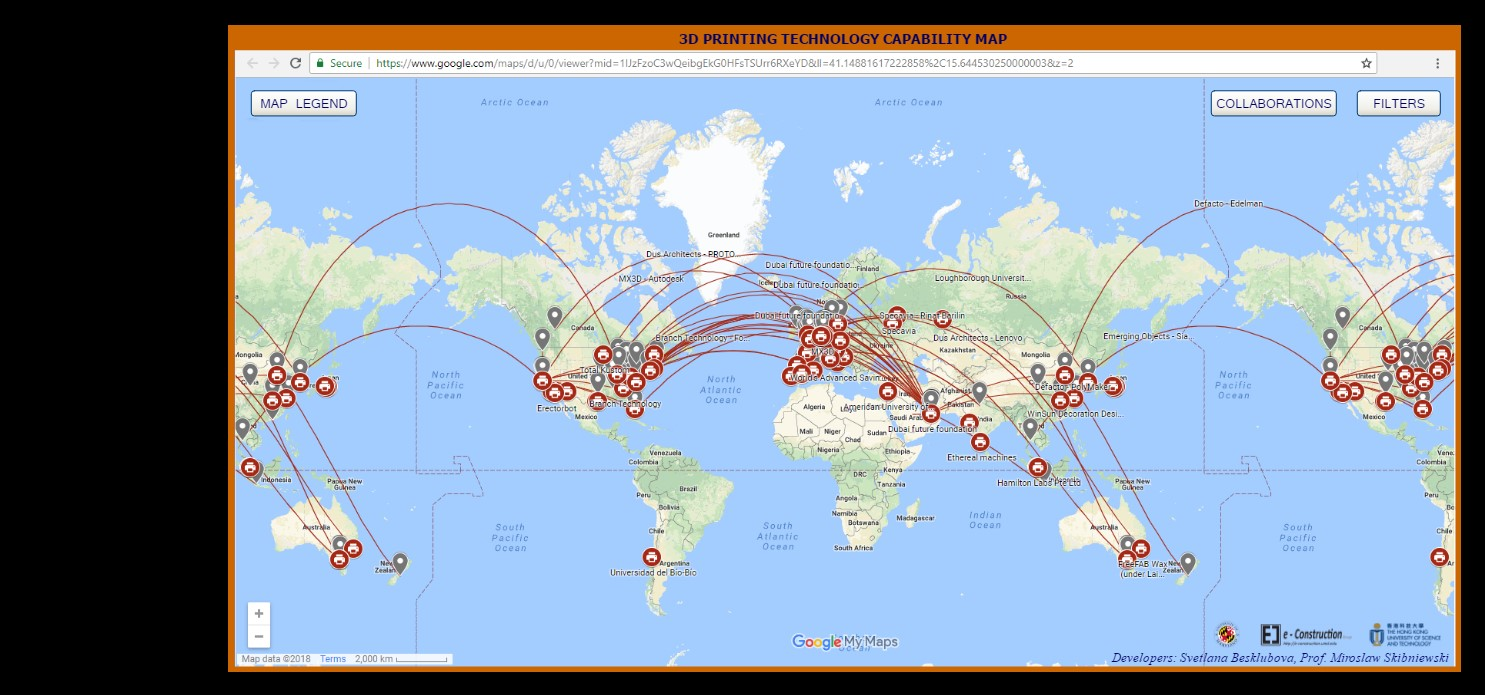
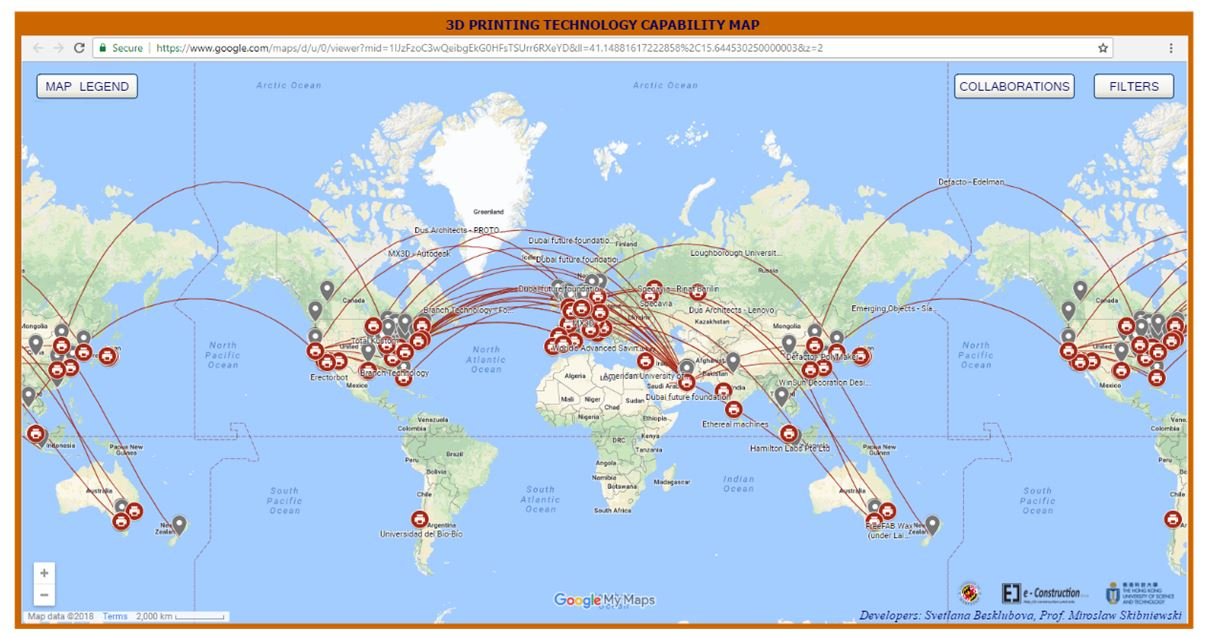
added a project

diff --git a/content/projects/3D-printing-map.md b/content/projects/3D-printing-map.md
@@ -7,30 +7,43 @@ tags: ["Geovisualization", "Web Programming"]
 
 ## How the system works
 
-A 3D printing companies database organized prior to data mapping was designed using the relational model. The database holds information on 3D printing organizations where each item referred contains basic information such as organization name; attributes such as current capabilities and types; location information such as city and geolocation; and one or more pictures grouped within galleries. The database also contains information about conventional construction industry companies who collaborate with 3D printing organizations and their identified linkages. The structure of the database is shown below. All of these details have been imported to the map to allow a visualization of the information, the initial prototype can be found by following the link: https://goo.gl/JJJbUi.
+A 3D printing companies database organized prior to data mapping was designed using the relational model. The database holds information on 3D printing organizations where each item referred contains basic information such as organization name; attributes such as current capabilities and types; location information such as city and geolocation; and one or more pictures grouped within galleries. The database also contains information about conventional construction industry companies who collaborate with 3D printing organizations and their identified linkages. The structure of the database is shown in Fig. 1. All of these details have been imported to the map to allow a visualization of the information (Fig. 2), the initial prototype can be found by following the [link](https://goo.gl/JJJbUi).
+
 ![pic1](01.jpg)
 Fig 1. Database Enhanced-Entity Relationship Diagram
 
-![pic1](02.jpg)
+![pic2](02.jpg)
 Fig 2. 3D Printing Technology Capability Map Interface (https://goo.gl/JJJbUi)
 
-I would like to build on top of what was initially done on Google maps and further implement new functionalities.
-This will should likely require to build a visualization platform without the use of the Google Map APIs. 
-The project will comprise of backend as well as frontend programming.
+I would like to build on top of what was initially done using My Google maps and further implement new search functionalities.
+
+The project comprise of backend as well as frontend programming. The backend will carry out computations using self-defined functions and will process requests from the front end. We can make a simple front-end page with nice visualization and a user interface with the specifications as stated below.
 
 
-## Summary
+## The User Interface
 
-Oh hey there! Last Friday night's dinner at China Garden was fun - we talked about Entrepreneur First, hackUST, startups, life.. oh and Markus' super cool dirty air detector - well just catching up in general! Ended it off with a nice family photo.
+The user interface was designed with the main focus on the map as shown in Fig. 3. The layout scheme contains buttons at the top of the map area and logos and developer names and controls for map interaction like zoom in/out at the bottom area. These buttons contain options and actions that permit users to interact with the map, selecting filters according to user needs and listing markers. The left side of the map is reserved for the map legend (refer to Fig. 3) with listed on-off layers; for instance, if a user’s need is just to see the 3D printing organizations icons, then other layers can be turned off. The map legend also contains an additional menu with the following standard Google maps functions: collapse map legend, map details, copy map, print map, zoom to a viewport, embed this map and download KML. The right side of the map is left for filters (refer to Fig. 3), which provide interactivity to a user interface through its collapsible, extensible and closable panel. 3D printing organizations and conventional construction companies are presented with icons on the map. Red icons indicate 3D printing companies presently in existence while grey icons represent conventional construction companies.  
+![pic3](03.jpg)
+Fig 3. Map legend and filters
 
-Event photos:
+## Search Filter Functions
 
 
+This project is required to provide the user with a web interface for search functions such as those that find 3D printing organizations by location (country), by organization type or by capability; thus, the user has the option to see only selected companies. The button “filters” in the upper-right-corner area should be pressed to call the corresponding right-side panel to apply filters (refer to Fig. 2). After one filter or a filter combination is selected with the necessary values, then the button “apply” should be pressed (refer to Fig. 3); thus, the map displays the search results according to the user query. In the case that a filter combination application is selected, the map shows the search results satisfying all filters simultaneously. The button “clear” cancels all filters. The cancellation of filters can also be done one by one by pressing the “cross” next to the corresponding filter. The button “cancel” closes the “filters” panel. The following filters and functions have been integrated into the software (Fig. 3):
+(1)	Search for a 3D printing organization will zoom to that organization location. This is a standard function of Google maps, for which an organization name should be typed in a search engine in the “map legend” panel. If the user clicks a company icon on the map, the information about the requested company will be displayed in the Infowindow.
+(2)	Filter by country displays only the 3D printing organizations in a selected country. A user selects the country from the dropdown list. All of the 3DP organizations in the country are displayed on the map with the marker icons.
+(3)	Filter by organization type represents only the 3D printing organizations related to the selected type (non-profit, for profit business or government agency). A user selects the country from the dropdown list. All of the 3DP organizations related to the queried type are displayed on the map with the marker icons.
+(4)	Filter by type of 3D printer displays only the 3D printing organizations related to the selected equipment type including gantry, robotic arm, cable-suspended, small-sized mobile robot, swarm micro-robots or others. All of the 3D printing organizations developing, producing and working with a queried type of printer are displayed on the map with the marker icons.
+(5)	Filter by type of materials shows only the 3D printing organizations related to selected material types that include cement-based, polymer, foam, plastic, welding compound, wood-based bulk material (saw dust, wooden chips, etc.) and other. All of the 3D printing organizations developing, producing and working with a queried type of material are displayed on the map with the marker icons.
+(6)	Filter by size range of 3D printed product displays only the 3D printing organizations related to the selected size range that measure less than one meter, 1 - 4 meters along one dimension, 5 - 10 meters along one dimension and an entire building/structure. All of the 3D printing organizations that could produce the queried size of the 3D printed product are displayed on the map with the marker icons.
+(7)	Filter by capabilities displays only the 3D printing organizations related to the selected capabilities (refer to section 3.1): A user can select a capability or combinations of capabilities from the pop-up window and then press the “ok” button once the selection process is completed (refer to Fig. 4). An indicator above the button “search by capabilities” shows how many of them are chosen. All of the 3DP organizations suitable for this request are displayed on the map with the marker icons. In the case that combinations of capabilities are chosen, companies with all the listed capabilities will be displayed.
+(8)	“Possible collaborations” suggests possible collaborations between 3D printing organizations based on the development plan of the organization-seeker’s capability. The button “collaborations” in the upper-right-corner area (Fig.2) should be pressed to apply this function. The first pop-up window to appear allows the selection of the country where the organization-seeker is located, which should be chosen from the drop-down list (refer to Fig 5). The second pop-up window allows the choice of capabilities that the organization-seeker want to gain or develop (refer to Fig 5). As a result of a search, the list of companies satisfying the request is arranged in priority. The priorities of found companies listed are assigned on the basis of geographic location and number of current capabilities that can satisfy the query (refer to Fig.6). A company would be placed in the highest priority if it has the closest location to the organization-seeker and all the requested capabilities (refer to Fig. 6, dot “A”); conversely, a company would be placed in the lowest priority if it has just one search-satisfied capability and is in the farthest location (refer to Fig. 6, dot “B”). Priorities II and III (refer to Fig. 6) might be equal, but according to the observed tendency of collaborations between companies in the 3D printing capability map, preference is given to the location. The search result can be downloaded as an Excel file with corresponding companies and their detailed information.
 
-## What is next?
+![pic4](04.jpg)
+Fig 4. Search by capabilities
 
-- This Friday (April 27), we're going to "Fundamentals of Crypto-economic Design" to meet Co-head of Education of Blockchain at Berkeley, Aparna Krishnan, to learn from her and mingle and have fun!!! [Event details](https://www.meetup.com/Ethereum-Hong-Kong/events/249868725/) 
+![pic5](05.jpg)
+Fig 5. Search possible collaborations
 
-- Next Friday (May 4) Jonathan Ma will host a workshop on VueJS
-
-- The next Friday (May 11) will be our last event of this semester! Let's have a great dinner at a place TBC and talk about what we can do in next school years' Tech Club.
+![pic6](06.jpg)
+Fig 6. Priority of capability list
